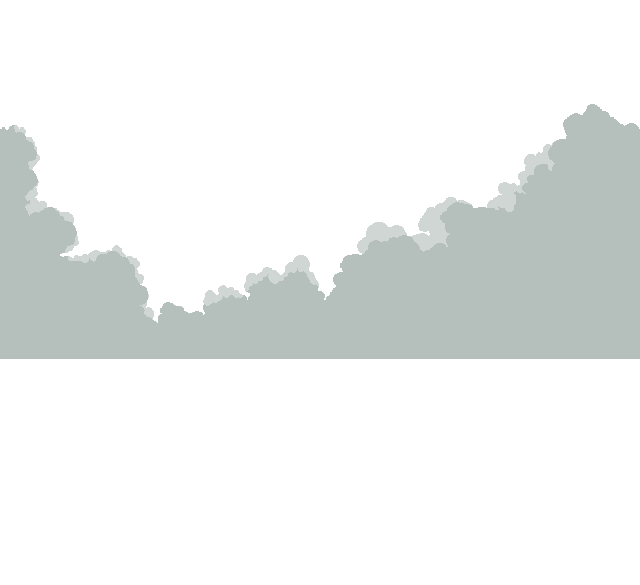
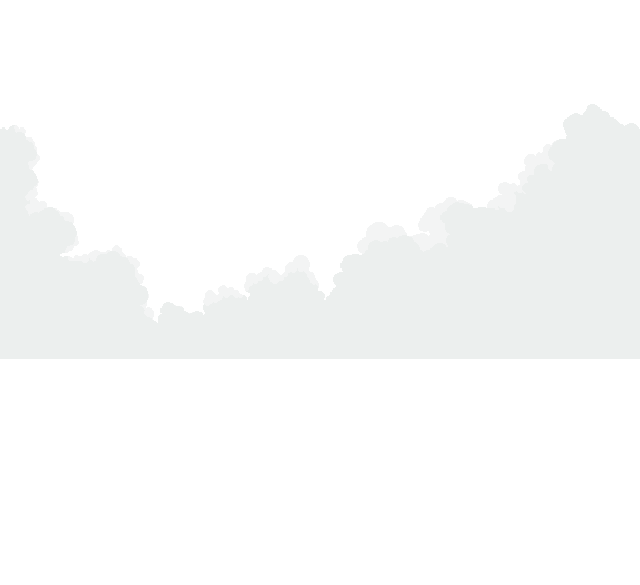
Asset updates - new sprites and visual enhancements
- Added character movement sprite sheets (idle, walk, attack animations)
- Added planetary-sheet.png system for constellation bodies (96 frames)
- Added comp-sheet sprite system (14 frames) for desk quiz interface
- Added book-sheet.png journal opening animation (8 frames)
- Updated home scene assets (clouds, stars, purple abyss layers)
- Updated title screen assets (3-frame button system, new backgrounds)
- Added debug visualization assets for development tools
- Added 9-slice UI containers (window, answer buttons)
- Added keyboard control sprites (arrow keys, X key interactions)

Changed region(s): [[0.0, 0.1538, 1.0, 0.6154]]

diff --git a/CLAUDE.md b/CLAUDE.md
@@ -1,0 +1,132 @@
+# CLAUDE.md
+
+This file provides guidance to Claude Code (claude.ai/code) when working with code in this repository.
+
+## Development Commands
+
+**Core Development:**
+- `npm run dev` - Start development server with Turbopack (opens http://localhost:3000)
+- `npm run build` - Build production version
+- `npm run start` - Start production server
+- `npm run lint` - Run ESLint checks
+
+**Version Management:**
+- `npm run version:patch` - Increment patch version using custom script
+- `npm run version:minor` - Increment minor version using custom script
+- `npm run version:major` - Increment major version using custom script
+
+## Architecture Overview
+
+**Rogue Resident** is an educational roguelike game built as a hospital simulation for medical physics training. The architecture follows a modular, event-driven design with clear separation of concerns.
+
+### Core Architecture Patterns
+
+**Game Phase Management:**
+- Main game loop handled by phase-based state machine (`app/page.tsx`)
+- Phases: `TITLE`, `NIGHT` with smooth transitions
+- Loading screens manage phase transitions with async state updates
+
+**State Management (Zustand-based):**
+- **gameStore** - Core game state, phases, time, relationships, resource proxies
+- **resourceStore** - Player resources (insight, momentum, star points)
+- **knowledgeStore** - Medical physics concepts, mastery tracking, constellation data
+- **activityStore** - Activity management, special events, unlocks
+- **dialogueStore** - Conversation state, mentor interactions
+- **sceneStore** - Scene navigation and UI state management
+- Other specialized stores: relationshipStore, abilityStore, journalStore, questionStore, tutorialStore
+
+**Event System:**
+- Centralized event bus (`app/core/events/CentralEventBus.ts`)
+- Event-driven communication between stores and systems
+- Maintains loose coupling between game systems
+
+**Time Management:**
+- TimeManager handles game time progression and day/night cycles
+- Time blocks and scheduling system for activities
+- Automatic phase transitions based on time advancement
+
+### Key Technical Patterns
+
+**Component Organization:**
+- `app/components/` - All React components organized by feature
+- `app/core/` - Game logic, systems, and business rules
+- `app/data/` - Game content (concepts, characters, dialogues)
+- `app/store/` - Zustand state management
+- `app/types/` - TypeScript type definitions
+
+**Styling System:**
+- styled-components with custom pixel theme system
+- Component-level styling following existing visual patterns
+- Consistent theming across all UI components
+
+**Asset Management:**
+- Images stored in `public/images/`
+- PIXI.js integration for game graphics and animations
+- Custom filters and particle effects using @pixi libraries
+
+### Game-Specific Systems
+
+**Knowledge Constellation:**
+- Medical physics concepts represented as interconnected nodes
+- Mastery tracking and star point progression system
+- Visual constellation interface for knowledge exploration
+
+**Mentor System:**
+- Four distinct mentors with unique teaching approaches
+- Relationship progression affects available control mechanics
+- Dialogue system with dynamic content based on relationship levels
+
+**Activity Interface:**
+- Dual dialogue modes (narrative vs challenge)
+- Hospital backdrop with isometric exploration
+- Activity unlocks based on knowledge and relationship progression
+
+**Resource Economy:**
+- Insight → Star Points conversion system
+- Momentum tracking for daily progression
+- Resource constraints drive strategic decision-making
+
+## Development Guidelines
+
+**State Management Patterns:**
+- Use appropriate store for the data type (don't put everything in gameStore)
+- Resources should flow through resourceStore, not gameStore
+- Use event bus for cross-system communication
+- Maintain store separation for modularity
+
+**Component Development:**
+- Follow existing styled-components patterns
+- Examine neighboring components for styling conventions
+- Use proper TypeScript typing from `app/types/`
+- Integrate with appropriate Zustand stores
+
+**Game Logic:**
+- Business rules belong in `app/core/` modules
+- Use TimeManager for all time-related operations
+- Events should be dispatched through centralEventBus
+- Maintain phase-based organization for game flow
+
+**Performance Considerations:**
+- Game uses "Chamber Pattern" optimizations for smooth gameplay
+- PIXI.js handles graphics rendering and animations
+- Turbopack enabled for fast development builds
+
+## Important Configuration
+
+**TypeScript Setup:**
+- Uses `@/*` path alias for project root
+- Strict mode enabled with ES2017 target
+- Next.js integration with custom TypeScript config
+
+**Build Configuration:**
+- styled-components compiler enabled
+- ESLint and TypeScript errors ignored during builds (dev environment)
+- Turbopack with custom loaders for .md, .txt, and .node files
+- Raw loader support for markdown content
+
+**Key Dependencies:**
+- Next.js 15 with React 19
+- PIXI.js 8.x for game graphics with specialized filters
+- Zustand for state management
+- styled-components for styling
+- d3.js for data visualization components

diff --git a/public/images/title/README.md b/public/images/title/README.md
@@ -20,14 +20,14 @@ Place your title screen sprite files in this directory with the following names:
    - Third cloud layer
    - Static layer positioned over cloud-2
 
-5. **title-screen-cloud-4.png** (640x360)
-   - Fourth cloud layer (closest to front)
+5. **title-screen-purple-abyss.png** (640x360)
+   - Purple abyss layer (closest to front)
    - Static layer positioned over cloud-3
 
-6. **title-screen-title.png** (242x85)
-   - The main "ROGUE RESIDENT" title logo
-   - Will be positioned in the upper third of the screen
-   - Will be scaled appropriately for different screen sizes
+6. **title-screen-title.png** (640x360)
+   - The main title overlay layer (same size as background for compositing)
+   - Fades in over the background and cloud layers
+   - Will be scaled uniformly with all other layers
 
 7. **play-button.png** (178x18 sprite sheet)
    - Row of 2 sprites: [normal state][hover state]
@@ -56,9 +56,10 @@ Place your title screen sprite files in this directory with the following names:
 - Frame switching happens automatically on hover/interaction
 - Buttons also scale slightly (10% larger on hover, 5% smaller on click)
 - All background layers are static (no scrolling animation)
+- Purple abyss layer is static (visible from start, no animation)
 - Uses 640x360 coordinate system with uniform scaling to fit viewport
-- Title sprite updated to 242x85 dimensions
-- Z-ordering: background → cloud-1 → cloud-2 → cloud-3 → cloud-4 → UI elements
+- Title sprite is 640x360 (same as background) for proper compositing
+- Z-ordering: background → cloud-1 → cloud-2 → cloud-3 → purple-abyss → title → UI elements
 - All sprites should be in PNG format for transparency support
 
 ## Fallback Behavior:

diff --git a/public/images/debug/README.md b/public/images/debug/README.md
@@ -1,0 +1,20 @@
+# Debug State Images
+
+This folder contains sprite images for the debug state selector on the title screen.
+
+## Required Images
+
+- `before-desk.png` - Image representing the state right before the desk activity
+- `before-cutscene.png` - Image representing the state right before the cutscene
+
+## Image Specifications
+
+- Recommended size: Any pixel art resolution that looks good in the grid
+- Format: PNG with transparency support
+- Style: Should match the game's pixel art aesthetic
+- The images will be displayed in a 3x3 grid of boxes on the title screen
+
+## Usage
+
+When the "Test Activity" button is clicked on the title screen, a 3x3 grid appears. The first two boxes in the grid use these images and allow you to jump to specific game states for testing purposes.
+
